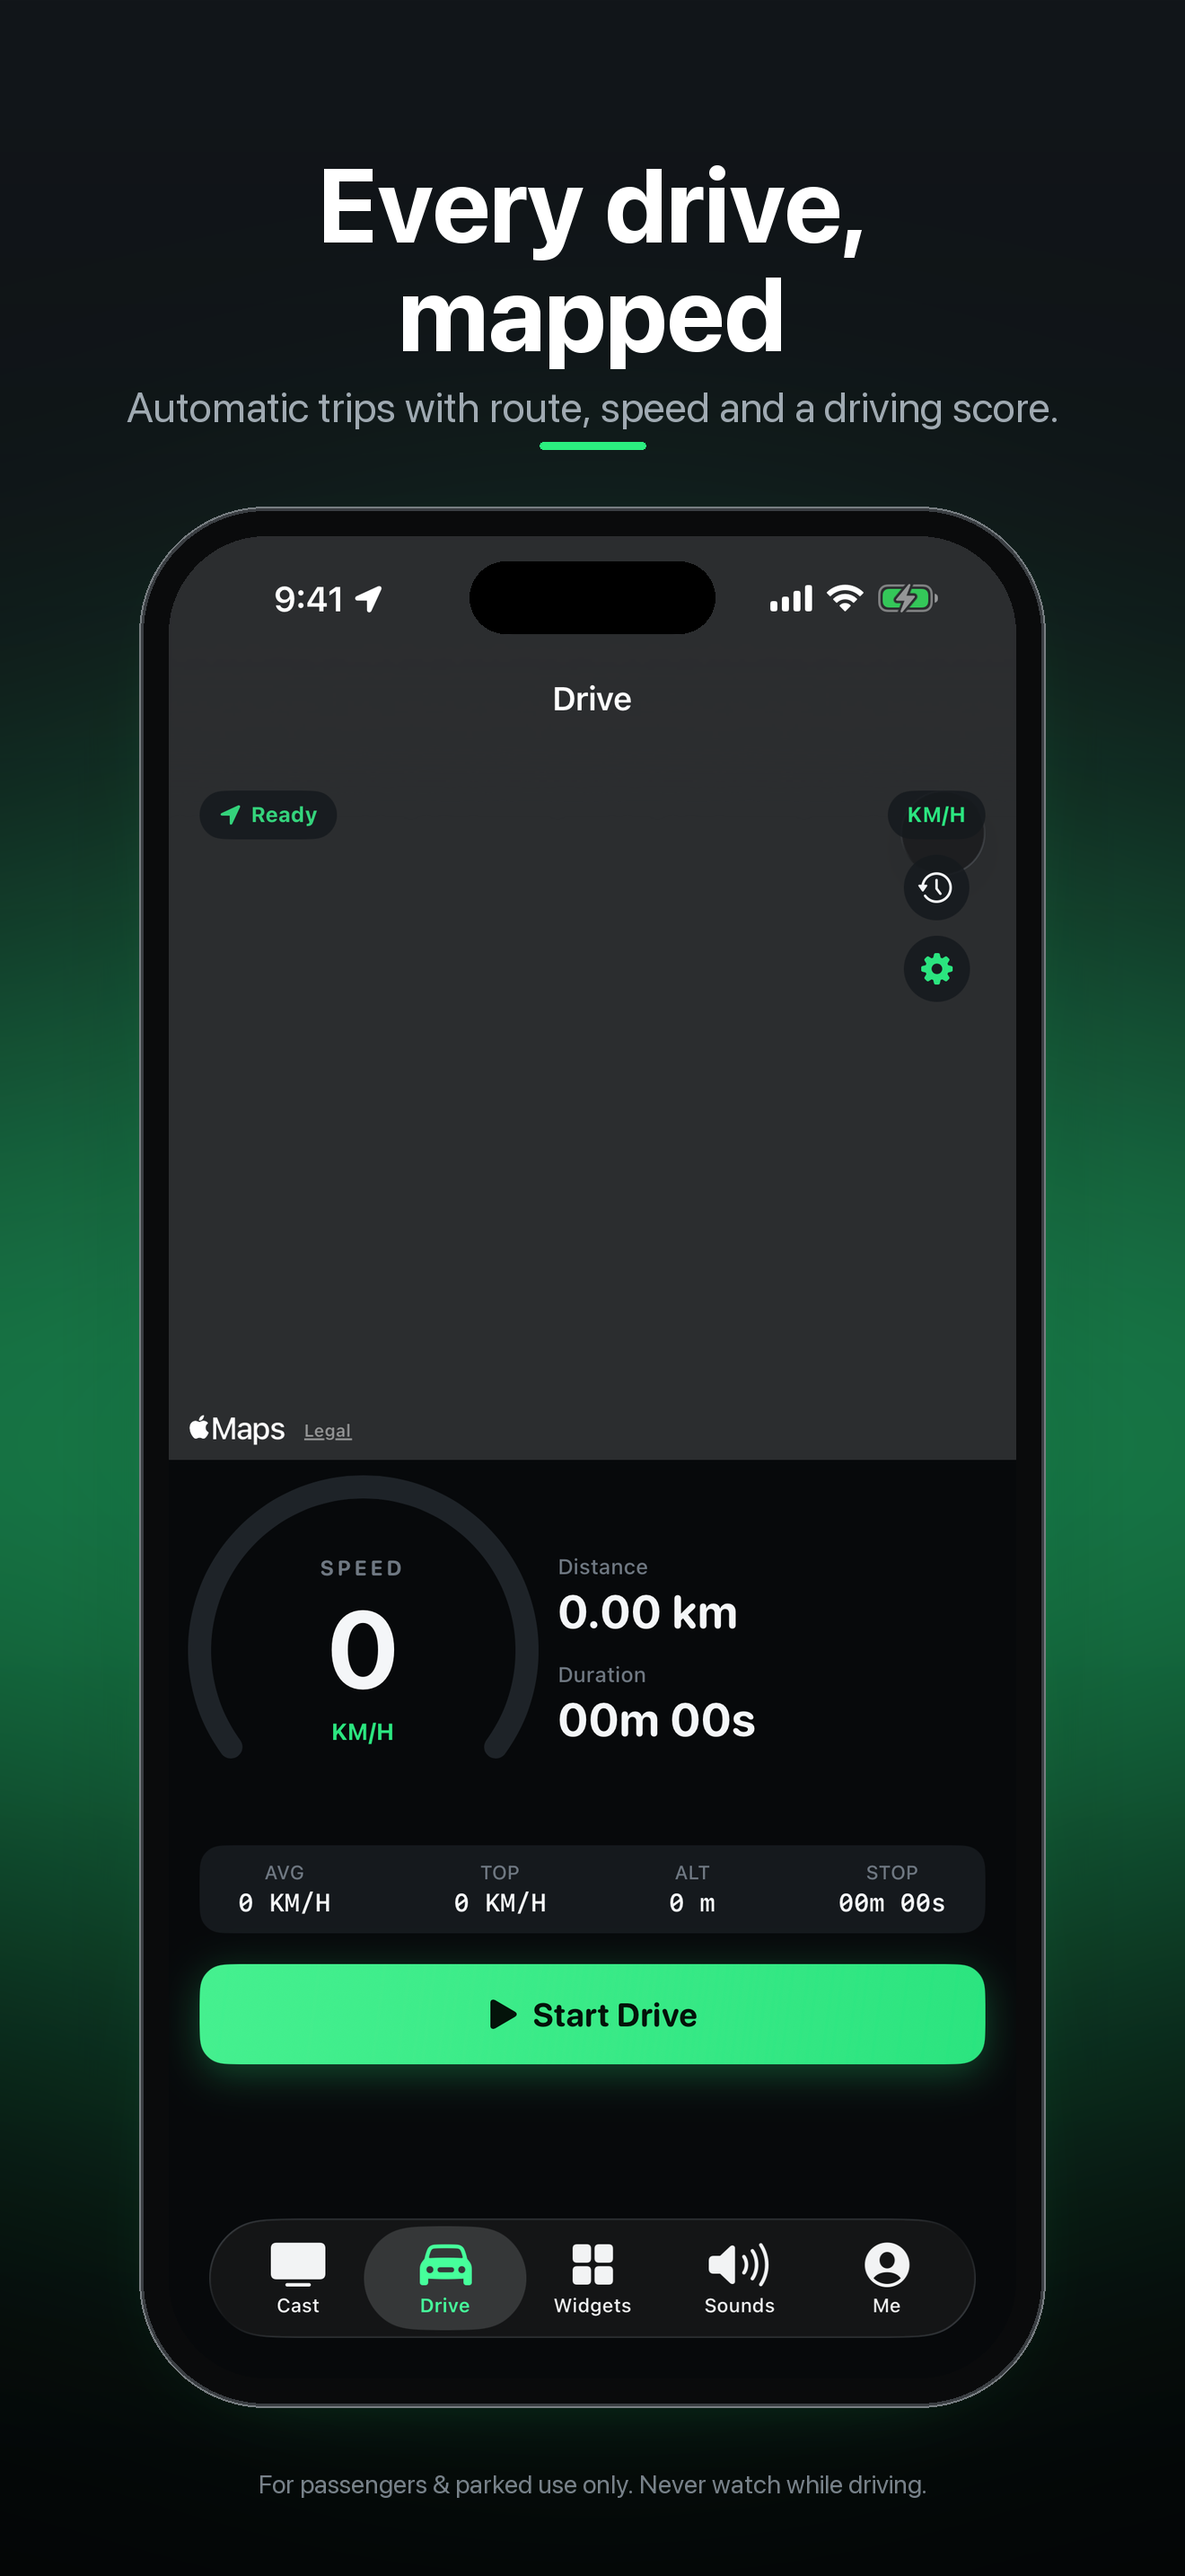
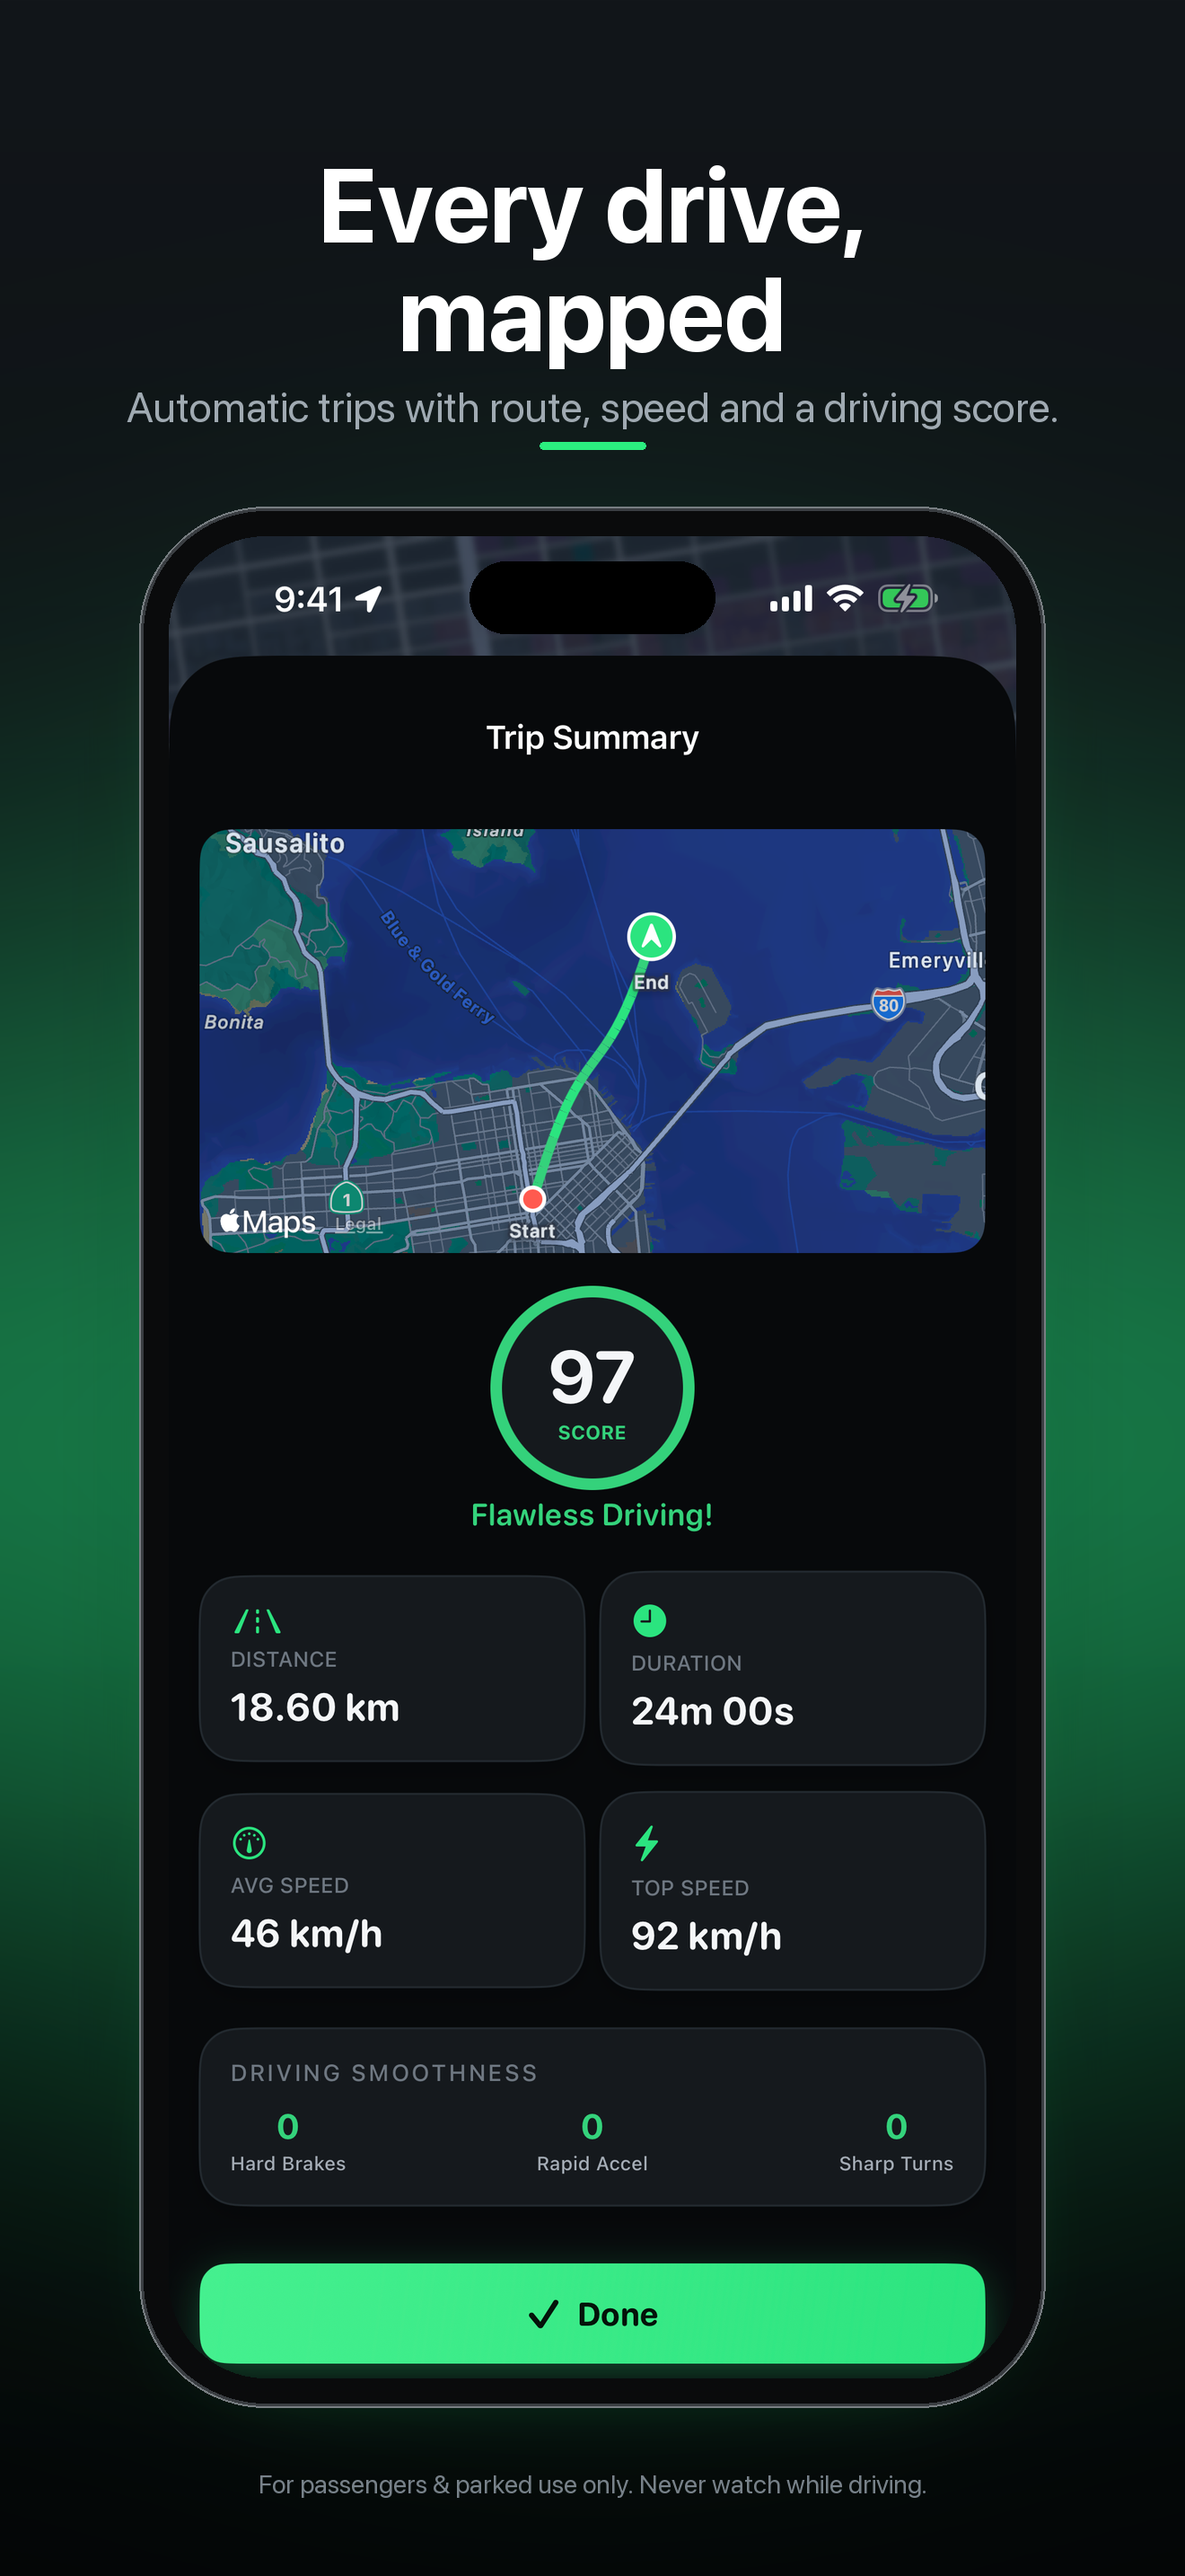
feat(media): final 7-screen classic-UI set (run 41987342797)
Claude-Session: https://claude.ai/code/session_019opyxJwDXXRjSpQsQwGVnJ

Changed region(s): [[0.1242, 0.1862, 0.8697, 0.6827], [0.1553, 0.7137, 0.8386, 0.931]]

diff --git a/AppStoreMedia/metadata.md b/AppStoreMedia/metadata.md
@@ -273,15 +273,15 @@ Committed final PNGs (classic UI, captured on the iOS Simulator by the workflow 
 | 01 | `01_cast.png` | Cast home (`-initialTab cast`) | Your videos. On the car screen. / Playlists, your files and photos. For passengers and parked breaks. |
 | 02 | `02_paywall.png` | Paywall, USD 19.99 one-time (`-showPaywall`) | Pay once. Keep it forever. / No subscriptions. One USD 19.99 purchase unlocks DashCast Pro. |
 | 03 | `03_sources.png` | Media sources with the bundled demo videos only (`-showMediaSources`) | Bring your own sources / M3U playlists, Jellyfin and Emby servers. Shown here with built-in demo videos. |
-| 04 | `04_player.png` ⚠ **not committed**: first capture was a black screen; regenerate | Player playing the bundled `night_drive.mp4` (`-playDemoVideo`) | A big, simple player / AirPlay, a cable or screen mirroring to the car display. |
-| 05 | `05_drive.png` | Drive (`-initialTab drive`; next run adds `-showLatestTrip` to open the seeded trip's route) | Every drive, mapped / Automatic trips with route, speed and a driving score. |
+| 04 | `04_player.png` | Player playing the bundled `night_drive.mp4` (`-playDemoVideo`) | A big, simple player / AirPlay, a cable or screen mirroring to the car display. |
+| 05 | `05_drive.png` | Drive trip summary for the seeded trip, with route map (`-initialTab drive -showLatestTrip`) | Every drive, mapped / Automatic trips with route, speed and a driving score. |
 | 06 | `06_widgets.png` | Widget editor (`-showWidgetEditor`) | Design your dashboard / Pick a car, add widgets and stickers. |
 | 07 | `07_onboarding.png` | Onboarding page 1 (`-showOnboarding`) | Set up in seconds / No account. Everything stays on your iPhone. |
 
-Sizes: `6.9-inch_1320x2868/` (1320 × 2868) and `6.5-inch_1284x2778/` (1284 × 2778). Six images each are committed today (04 missing).
+Sizes: `6.9-inch_1320x2868/` (1320 × 2868) and `6.5-inch_1284x2778/` (1284 × 2778). Seven images each, from App Store Media run 41987342797.
 
 Known issues in the current captures (classic UI is frozen under D10, so the owner must approve any fix):
-- 01 Cast shows the in-app label **"CarPlay Screen"** in the connection illustration. Before upload, either change that label or don't use 01.
+- 01 Cast and 04 Player show the in-app labels **"CarPlay Screen"** and "AirPlay / CarPlay audio" in the connection illustration. Before upload, either change those labels or leave out 01 and 04.
 - 06 Widgets shows a bundled car image with a faint manufacturer name behind the plate. Check that it isn't a third-party brand.
 - 02 Paywall says "Shared with your family through Family Sharing". Keep it only if Family Sharing is turned on in App Store Connect.
 Every frame has the footer *"For passengers & parked use only. Never watch while driving."*

diff --git a/Docs/JOURNAL.md b/Docs/JOURNAL.md
@@ -95,8 +95,8 @@
 ### 2026-11-05 02:35 (Bogotá) — Session 23: App Store screenshots of the classic UI (claude/classic-screenshots, #40)
 - Media pipeline now captures the classic UI: 01 Cast · 02 Paywall (USD 19.99 one-time) · 03 Media sources (bundled demo videos only) · 04 Player · 05 Drive · 06 Widget editor · 07 Onboarding. Headlines contain no "CarPlay" wording and no third-party brands.
 - Screenshot-only launch args: `-showOnboarding`, `-showMediaSources`, `-playDemoVideo`, `-showLatestTrip`. The paywall shows $19.99 under `-seedDemoData` when StoreKit products can't load (simctl). No layout changes (D10).
-- App Store Media run 41986084314 succeeded and produced the `appstore-screenshots-framed` and `appstore-screenshots-plain` artifacts. 24 PNGs committed to `AppStoreMedia/screenshots/` (6 screens × 2 sizes × framed + plain).
-- Open: 04 Player came out black (cause unknown, needs a sim log), and 05 Drive showed an empty live HUD, so `-showLatestTrip` was added. Owner review: "CarPlay Screen" label on Cast home, car image brand on Widgets, and the Family Sharing line on the paywall.
+- Final set from App Store Media run 41987342797 (artifacts `appstore-screenshots-framed`, `appstore-screenshots-plain`): 28 PNGs in `AppStoreMedia/screenshots/` (7 screens × 2 sizes × framed + plain). On the first run (41986084314) 04 Player came out black and 05 Drive showed an empty HUD. `-showLatestTrip` fixed Drive, and the player capture worked on the re-run.
+- Owner review: the "CarPlay Screen" / "AirPlay / CarPlay audio" labels on Cast and Player, car image brand on Widgets, and the Family Sharing line on the paywall.
 
 ### 2026-11-05 01:45 (Bogotá) — Owner reverted the redesign UI (branch claude/classic-ui)
 - Owner tested the integrated build on his Mac and found the redesign (#31 2B, #32/#34 2A: Home/Library/Cast/Settings tabs, onboarding, Extras) **confusing**; he wants the **previous UI** (Cast / Drive / Widgets / Sounds / Me) with the new functionality.
